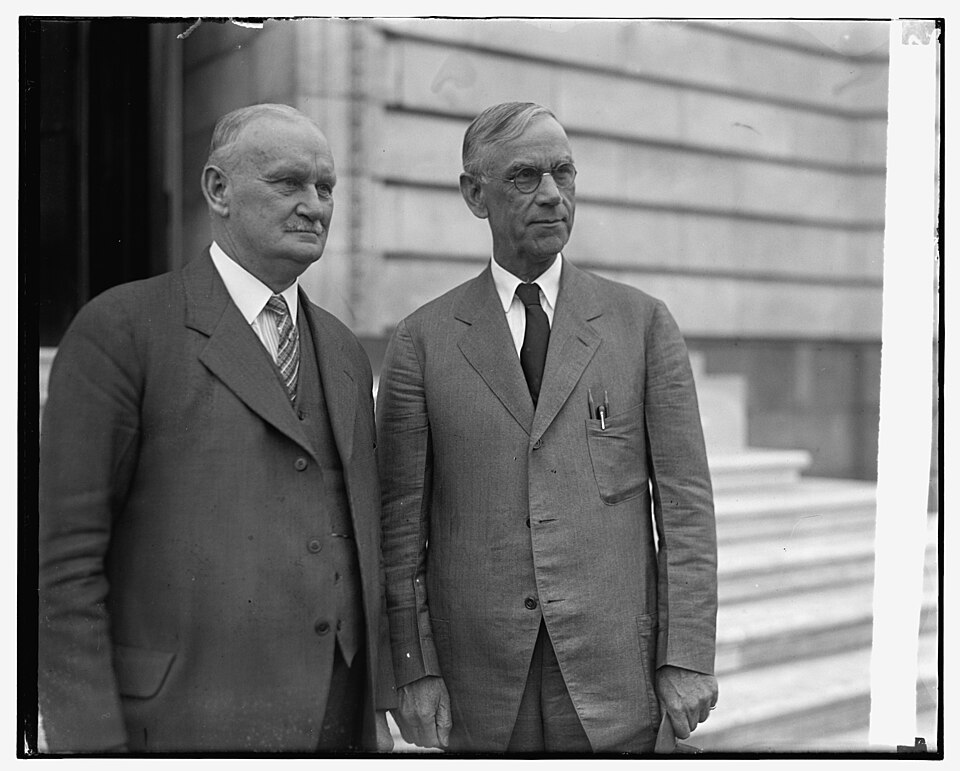
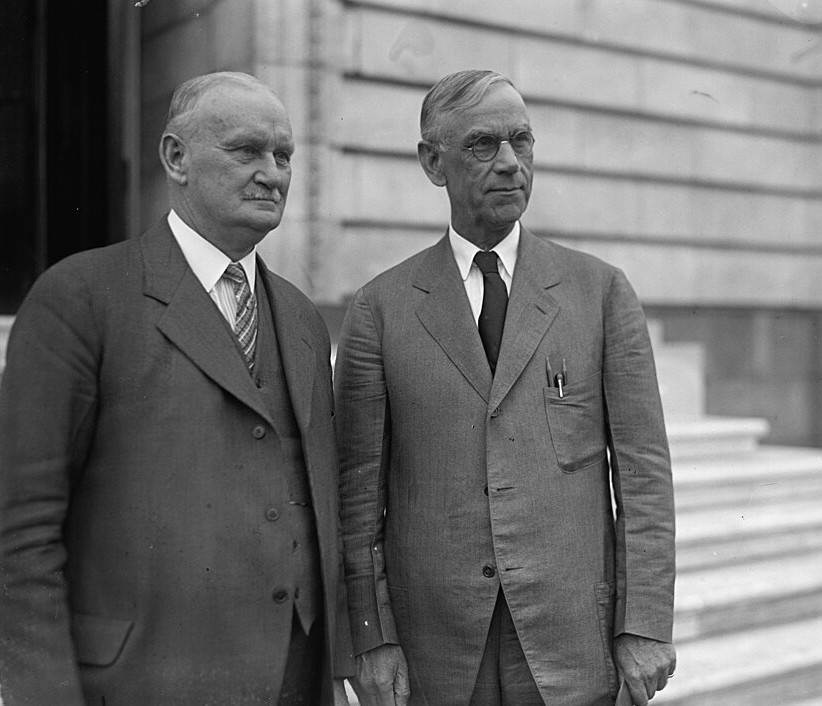
Thumbnails: show photos in real colour, crop archive scan border, hide unit-less key figures

diff --git a/explainers/index.html b/explainers/index.html
@@ -153,7 +153,7 @@
   <a class="read" href="/explainers/markets-2026-10-26.html">Read the explainer <svg aria-hidden="true"><use href="#i-go"/></svg></a>
 </article>
 <article class="story" data-topic="concepts">
-  <a class="thumb" href="/explainers/sip-compounding-explained.html" tabindex="-1" aria-hidden="true"><svg viewBox="0 0 400 225" preserveAspectRatio="xMidYMid slice" aria-hidden="true" focusable="false"><rect width="400" height="225" fill="#E9EEFB"/><line x1="30" x2="370" y1="112" y2="112" stroke="#1D46C8" opacity=".12"/><line x1="30" x2="370" y1="151.0" y2="151.0" stroke="#1D46C8" opacity=".12"/><line x1="30" x2="370" y1="190" y2="190" stroke="#1D46C8" opacity=".12"/><line x1="30" x2="370" y1="190.0" y2="190.0" stroke="#1D46C8" stroke-width="1.5" opacity=".7"/><rect x="36.8" y="180.2" width="20.4" height="9.8" rx="2" fill="#1D46C8" opacity="0.6"/><rect x="70.8" y="175.0" width="20.4" height="15.0" rx="2" fill="#1D46C8" opacity="0.6"/><rect x="104.8" y="169.3" width="20.4" height="20.7" rx="2" fill="#1D46C8" opacity="0.6"/><rect x="138.8" y="167.8" width="20.4" height="22.2" rx="2" fill="#1D46C8" opacity="0.6"/><rect x="172.8" y="168.8" width="20.4" height="21.2" rx="2" fill="#1D46C8" opacity="0.6"/><rect x="206.8" y="162.1" width="20.4" height="27.9" rx="2" fill="#1D46C8" opacity="0.6"/><rect x="240.8" y="155.4" width="20.4" height="34.6" rx="2" fill="#1D46C8" opacity="0.6"/><rect x="274.8" y="145.6" width="20.4" height="44.4" rx="2" fill="#1D46C8" opacity="0.6"/><rect x="308.8" y="125.9" width="20.4" height="64.1" rx="2" fill="#1D46C8" opacity="0.6"/><rect x="342.8" y="112.0" width="20.4" height="78.0" rx="2" fill="#1D46C8" opacity="1"/><text x="30" y="46" font-family="Schibsted Grotesk,Arial,sans-serif" font-weight="600" font-size="14" fill="#1D46C8" opacity=".82">FY26</text><text x="28" y="94" font-family="Libre Caslon Text,Georgia,serif" font-weight="700" font-size="44" fill="#1D46C8">3.50</text><text x="370" y="46" text-anchor="end" font-family="Libre Caslon Text,Georgia,serif" font-weight="700" font-size="13" fill="#1D46C8">FIN<tspan fill="#0E1A2E">2</tspan>DAY</text></svg></a>
+  <a class="thumb" href="/explainers/sip-compounding-explained.html" tabindex="-1" aria-hidden="true"><svg viewBox="0 0 400 225" preserveAspectRatio="xMidYMid slice" aria-hidden="true" focusable="false"><rect width="400" height="225" fill="#E9EEFB"/><line x1="30" x2="370" y1="112" y2="112" stroke="#1D46C8" opacity=".12"/><line x1="30" x2="370" y1="151.0" y2="151.0" stroke="#1D46C8" opacity=".12"/><line x1="30" x2="370" y1="190" y2="190" stroke="#1D46C8" opacity=".12"/><line x1="30" x2="370" y1="190.0" y2="190.0" stroke="#1D46C8" stroke-width="1.5" opacity=".7"/><rect x="36.8" y="180.2" width="20.4" height="9.8" rx="2" fill="#1D46C8" opacity="0.6"/><rect x="70.8" y="175.0" width="20.4" height="15.0" rx="2" fill="#1D46C8" opacity="0.6"/><rect x="104.8" y="169.3" width="20.4" height="20.7" rx="2" fill="#1D46C8" opacity="0.6"/><rect x="138.8" y="167.8" width="20.4" height="22.2" rx="2" fill="#1D46C8" opacity="0.6"/><rect x="172.8" y="168.8" width="20.4" height="21.2" rx="2" fill="#1D46C8" opacity="0.6"/><rect x="206.8" y="162.1" width="20.4" height="27.9" rx="2" fill="#1D46C8" opacity="0.6"/><rect x="240.8" y="155.4" width="20.4" height="34.6" rx="2" fill="#1D46C8" opacity="0.6"/><rect x="274.8" y="145.6" width="20.4" height="44.4" rx="2" fill="#1D46C8" opacity="0.6"/><rect x="308.8" y="125.9" width="20.4" height="64.1" rx="2" fill="#1D46C8" opacity="0.6"/><rect x="342.8" y="112.0" width="20.4" height="78.0" rx="2" fill="#1D46C8" opacity="1"/><text x="370" y="46" text-anchor="end" font-family="Libre Caslon Text,Georgia,serif" font-weight="700" font-size="13" fill="#1D46C8">FIN<tspan fill="#0E1A2E">2</tspan>DAY</text></svg></a>
   <div class="meta"><span class="tag ">Basics</span><span>26 Oct 2026</span><span>3 min</span></div>
   <h3><a href="/explainers/sip-compounding-explained.html">How a SIP works: compounding, time and averaging</a></h3>
   <p>₹10,000 a month for 25 years: ₹30 lakh in, about ₹1.9 crore out at 12%. How SIP maths works, and where it breaks.</p>
@@ -181,7 +181,7 @@
   <a class="read" href="/explainers/jio-platforms-ipo-explained.html">Read the explainer <svg aria-hidden="true"><use href="#i-go"/></svg></a>
 </article>
 <article class="story" data-topic="global markets">
-  <a class="thumb" href="/explainers/fpi-sell-dii-buy-2026.html" tabindex="-1" aria-hidden="true"><svg viewBox="0 0 400 225" preserveAspectRatio="xMidYMid slice" aria-hidden="true" focusable="false"><rect width="400" height="225" fill="#0E1A2E"/><line x1="30" x2="370" y1="112" y2="112" stroke="#8EA6E6" opacity=".12"/><line x1="30" x2="370" y1="151.0" y2="151.0" stroke="#8EA6E6" opacity=".12"/><line x1="30" x2="370" y1="190" y2="190" stroke="#8EA6E6" opacity=".12"/><rect x="126.1" y="115.7" width="243.9" height="12.1" rx="2" fill="#8EA6E6" opacity="1"/><rect x="126.1" y="135.2" width="211.4" height="12.1" rx="2" fill="#8EA6E6" opacity="0.6"/><rect x="74.3" y="154.7" width="51.7" height="12.1" rx="2" fill="#8EA6E6" opacity="0.38"/><rect x="30.0" y="174.2" width="96.1" height="12.1" rx="2" fill="#8EA6E6" opacity="1"/><line x1="126.1" x2="126.1" y1="106" y2="196" stroke="#8EA6E6" stroke-width="1.5" opacity=".7"/><text x="30" y="46" font-family="Schibsted Grotesk,Arial,sans-serif" font-weight="600" font-size="14" fill="#8EA6E6" opacity=".82">DIIs, 2025</text><text x="28" y="94" font-family="Libre Caslon Text,Georgia,serif" font-weight="700" font-size="44" fill="#8EA6E6">+7.88</text><text x="370" y="46" text-anchor="end" font-family="Libre Caslon Text,Georgia,serif" font-weight="700" font-size="13" fill="#8EA6E6">FIN<tspan fill="#8EA6E6">2</tspan>DAY</text></svg></a>
+  <a class="thumb" href="/explainers/fpi-sell-dii-buy-2026.html" tabindex="-1" aria-hidden="true"><svg viewBox="0 0 400 225" preserveAspectRatio="xMidYMid slice" aria-hidden="true" focusable="false"><rect width="400" height="225" fill="#0E1A2E"/><line x1="30" x2="370" y1="112" y2="112" stroke="#8EA6E6" opacity=".12"/><line x1="30" x2="370" y1="151.0" y2="151.0" stroke="#8EA6E6" opacity=".12"/><line x1="30" x2="370" y1="190" y2="190" stroke="#8EA6E6" opacity=".12"/><rect x="126.1" y="115.7" width="243.9" height="12.1" rx="2" fill="#8EA6E6" opacity="1"/><rect x="126.1" y="135.2" width="211.4" height="12.1" rx="2" fill="#8EA6E6" opacity="0.6"/><rect x="74.3" y="154.7" width="51.7" height="12.1" rx="2" fill="#8EA6E6" opacity="0.38"/><rect x="30.0" y="174.2" width="96.1" height="12.1" rx="2" fill="#8EA6E6" opacity="1"/><line x1="126.1" x2="126.1" y1="106" y2="196" stroke="#8EA6E6" stroke-width="1.5" opacity=".7"/><text x="370" y="46" text-anchor="end" font-family="Libre Caslon Text,Georgia,serif" font-weight="700" font-size="13" fill="#8EA6E6">FIN<tspan fill="#8EA6E6">2</tspan>DAY</text></svg></a>
   <div class="meta"><span class="tag ">Global</span><span>21 Oct 2026</span><span>3 min</span></div>
   <h3><a href="/explainers/fpi-sell-dii-buy-2026.html">Foreigners sold, Indians bought: who is holding up the market?</a></h3>
   <p>FPIs have sold ₹3.12 lakh crore this year. Domestic funds have bought far more. Who is paying, and for how long?</p>
@@ -209,7 +209,7 @@
   <a class="read" href="/explainers/markets-2026-10-16.html">Read the explainer <svg aria-hidden="true"><use href="#i-go"/></svg></a>
 </article>
 <article class="story" data-topic="trade">
-  <a class="thumb photo" href="/explainers/smoot-hawley-tariff-1930.html" tabindex="-1" aria-hidden="true"><img src="/assets/thumbs/smoot-hawley-tariff-1930.jpg" alt="" loading="lazy" width="960" height="540"><span class="credit">Photo: National Photo Company, 1929, public domain, via Wikimedia Commons</span></a>
+  <a class="thumb photo" href="/explainers/smoot-hawley-tariff-1930.html" tabindex="-1" aria-hidden="true"><img src="/assets/thumbs/smoot-hawley-tariff-1930.jpg" alt="" loading="lazy" width="960" height="540" style="object-position:50% 8%"><span class="credit">Photo: National Photo Company, 1929, public domain, via Wikimedia Commons</span></a>
   <div class="meta"><span class="tag ">Trade</span><span>16 Oct 2026</span><span>4 min</span></div>
   <h3><a href="/explainers/smoot-hawley-tariff-1930.html">Smoot-Hawley: the 1930 tariff that made the Depression worse</a></h3>
   <p>US tariffs on dutiable goods hit 59.1% by 1932, and world trade fell 66%. The story of history's most famous tariff.</p>

diff --git a/assets/style.css b/assets/style.css
@@ -332,16 +332,15 @@ footer :focus-visible{outline-color:#fff}
 .story .read{margin-top:auto}
 .story[hidden]{display:none!important}
 
-/* Thumbnails: vector covers drawn from each story's chart, or a photo in the same blues (duotone) */
-.thumb{position:relative;display:block;aspect-ratio:16/9;margin:0 0 16px;border-radius:var(--r);overflow:hidden;background:var(--blue);isolation:isolate}
+/* Thumbnails: vector covers drawn from each story's chart, or a real photo in its own colours */
+.thumb{position:relative;display:block;aspect-ratio:16/9;margin:0 0 16px;border-radius:var(--r);overflow:hidden;background:var(--mist)}
 .thumb svg,.thumb img{display:block;width:100%;height:100%;object-fit:cover}
-.thumb.photo img,.duo img{filter:grayscale(1) contrast(1.12) brightness(1.04)}
-.thumb.photo::after,.duo::after{content:"";position:absolute;inset:0;background:var(--blue);mix-blend-mode:screen;pointer-events:none}
-.thumb .credit{position:absolute;right:8px;bottom:6px;z-index:2;max-width:calc(100% - 16px);font:500 10.5px/1.3 var(--sans);color:#fff;text-shadow:0 1px 3px rgba(14,26,46,.7);white-space:nowrap;overflow:hidden;text-overflow:ellipsis}
+.thumb.photo::after{content:"";position:absolute;inset:auto 0 0;height:34%;background:linear-gradient(transparent,rgba(14,26,46,.55));pointer-events:none}
+.thumb .credit{position:absolute;right:8px;bottom:6px;z-index:2;max-width:calc(100% - 16px);font:500 10.5px/1.3 var(--sans);color:#fff;text-shadow:0 1px 2px rgba(14,26,46,.6);white-space:nowrap;overflow:hidden;text-overflow:ellipsis}
 .story:hover .thumb{outline:2px solid var(--blue);outline-offset:2px}
 .story .thumb + .meta{margin-top:0}
 .lead-photo{margin:28px 0 0}
-.duo{position:relative;aspect-ratio:16/9;border-radius:var(--r);overflow:hidden;isolation:isolate;background:var(--blue)}
+.duo{position:relative;aspect-ratio:16/9;border-radius:var(--r);overflow:hidden;background:var(--mist)}
 .duo img{width:100%;height:100%;object-fit:cover;display:block}
 .lead-photo figcaption{margin-top:8px;font-size:13px;color:var(--mute)}
 .lead-photo figcaption a{color:var(--mute)}

diff --git a/explainers/smoot-hawley-tariff-1930.html b/explainers/smoot-hawley-tariff-1930.html
@@ -46,7 +46,7 @@
     <h1>Smoot-Hawley, 1930: the tariff that made the Great Depression worse</h1>
     <p class="dek">A limited fix for farmers became duties on nearly 3,300 goods, retaliation from trading partners and a 66% collapse in world trade. Why the 1930 law is still the benchmark for every trade war.</p>
   </header>
-  <figure class="lead-photo"><div class="duo"><img src="/assets/thumbs/smoot-hawley-tariff-1930.jpg" alt="Rep. Willis Hawley and Sen. Reed Smoot in April 1929" width="960" height="540"></div><figcaption><a href="https://commons.wikimedia.org/wiki/File:Rep._W.C._Hawley,_Reed_Smoot,_4-11-29_LCCN2016843632.jpg" target="_blank" rel="noopener">Photo: National Photo Company, 1929, public domain, via Wikimedia Commons</a></figcaption></figure>
+  <figure class="lead-photo"><div class="duo"><img src="/assets/thumbs/smoot-hawley-tariff-1930.jpg" alt="Rep. Willis Hawley and Sen. Reed Smoot in April 1929" width="960" height="540" style="object-position:50% 8%"></div><figcaption><a href="https://commons.wikimedia.org/wiki/File:Rep._W.C._Hawley,_Reed_Smoot,_4-11-29_LCCN2016843632.jpg" target="_blank" rel="noopener">Photo: National Photo Company, 1929, public domain, via Wikimedia Commons</a></figcaption></figure>
   <div class="prose"><p>On <strong>17 June 1930</strong>, US President Herbert Hoover signed the Tariff Act of 1930, better known by the names of its two sponsors, Senator Reed Smoot and Representative Willis Hawley. Almost a century later, "Smoot-Hawley" is still the shorthand economists reach for whenever a big country raises tariffs.</p>
 <p>Here's what the law did, why its bite grew after it was passed, and what the numbers say about the damage.</p>
 <h2>A small fix that grew</h2>

diff --git a/_src/thumbs.py b/_src/thumbs.py
@@ -79,7 +79,8 @@ def _key(sp):
     if sp["k"] in ("h", "v"):
         size = "w" if sp["k"] == "h" else "h"
         r = max(sp["rows"], key=lambda r: r[size])
-        return r["l"], r["t"]
+        # a bare number means nothing out of context; show it only with its unit
+        return (r["l"], r["t"]) if re.search(r"[^\d\s,.+\-−~]", r["t"]) else None
     base = sp["series"][0]
     if "p" in base and base["p"] and base["p"][-1][2]:
         label = sp["xl"][-1][1] if sp.get("xl") else ""
@@ -127,8 +128,9 @@ def thumb(e, href):
     """Card thumbnail, linked to the story. Decorative for screen readers: the card title is the link they use."""
     p = PHOTOS.get(e["slug"])
     if p:
+        pos = f' style="object-position:{p["pos"]}"' if p.get("pos") else ""
         return (f'<a class="thumb photo" href="{href}" tabindex="-1" aria-hidden="true">'
-                f'<img src="{p["file"]}" alt="" loading="lazy" width="960" height="540">'
+                f'<img src="{p["file"]}" alt="" loading="lazy" width="960" height="540"{pos}>'
                 f'<span class="credit">{html.escape(p["credit"])}</span></a>')
     return f'<a class="thumb" href="{href}" tabindex="-1" aria-hidden="true">{cover(e)}</a>'
 
@@ -138,5 +140,6 @@ def figure(e):
     p = PHOTOS.get(e["slug"])
     if not p:
         return ""
-    return (f'<figure class="lead-photo"><div class="duo"><img src="{p["file"]}" alt="{html.escape(p["alt"])}" width="960" height="540"></div>'
+    pos = f' style="object-position:{p["pos"]}"' if p.get("pos") else ""
+    return (f'<figure class="lead-photo"><div class="duo"><img src="{p["file"]}" alt="{html.escape(p["alt"])}" width="960" height="540"{pos}></div>'
             f'<figcaption><a href="{p["link"]}" target="_blank" rel="noopener">{html.escape(p["credit"])}</a></figcaption></figure>')

diff --git a/_src/README.md b/_src/README.md
@@ -18,7 +18,7 @@ step on Netlify: run the build locally and commit the generated HTML.
   with `file` (save a ~960px-wide JPG in `assets/thumbs/<slug>.jpg`), `alt`, `credit` and `link`. Use only photos
   you are allowed to publish (public domain, CC0, CC BY, CC BY-SA from Wikimedia Commons), credit them exactly, and
   only when the story has a clear real-world subject (a company, building, product, place or historical event).
-  Photos are shown in the site's blue duotone automatically.
+  Photos are shown in their real colours, cropped to 16:9; add `"pos": "50% 10%"` to keep faces or the subject in frame.
 - `DESIGN.md` — the visual system (colours, fonts, chart card). The homepage reads each story's chart title and
   measure line from the caption under its first chart: write captions as "What is measured. Extra note. Source: …".
 - `example_stories.py` — reference examples of real stories (do not run)
